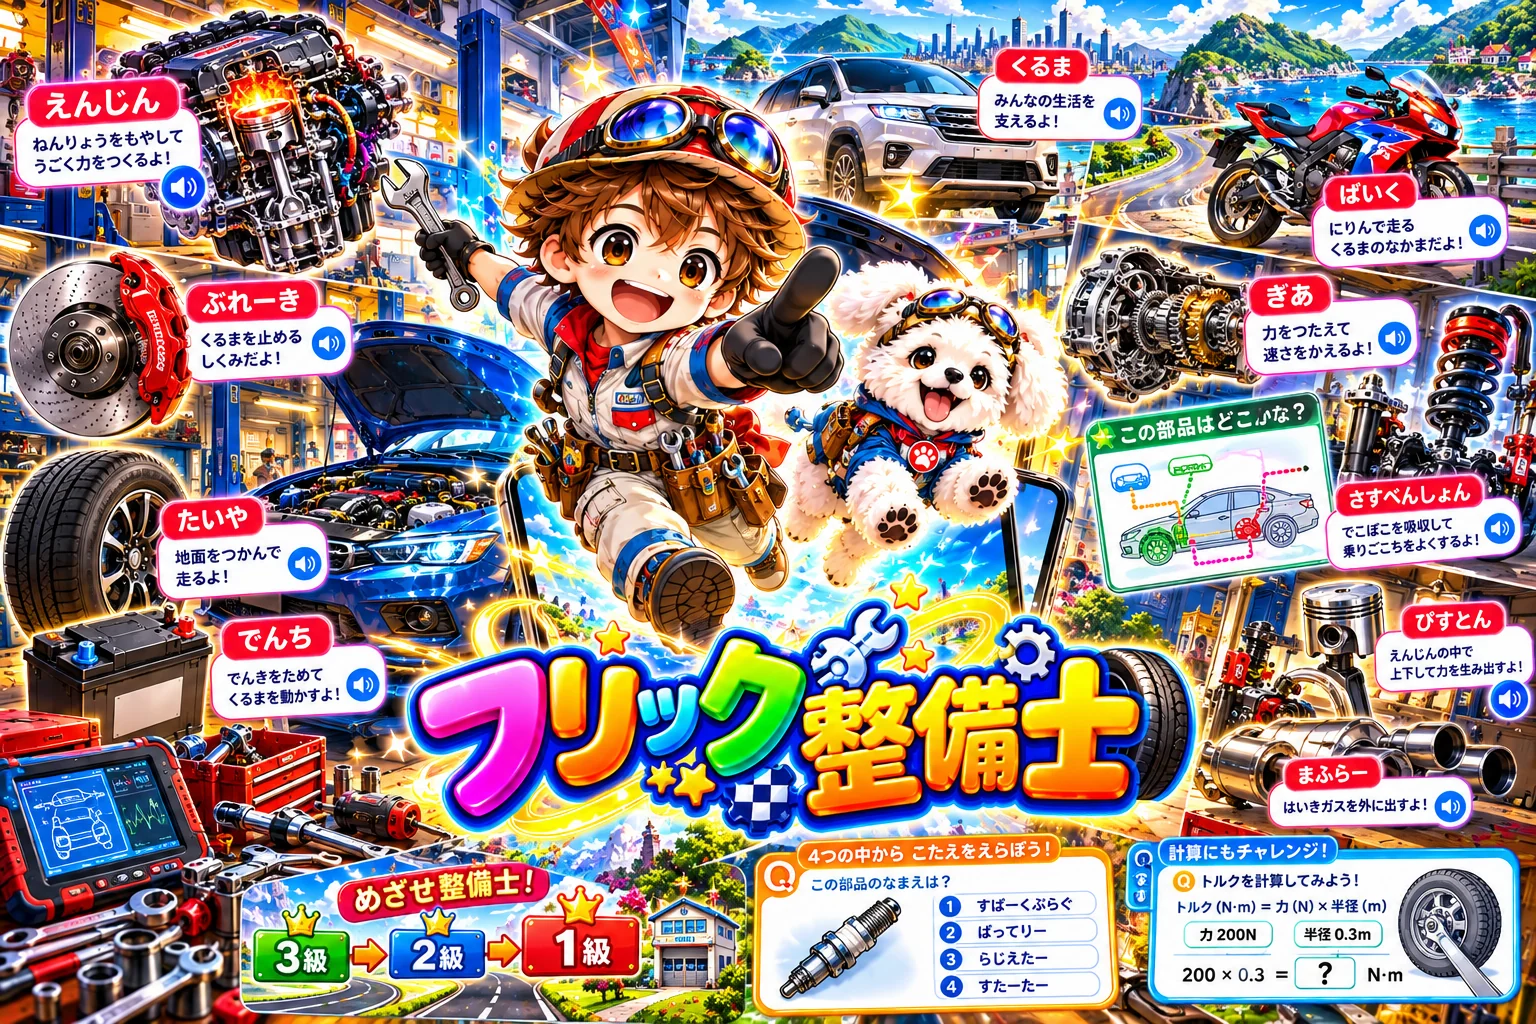
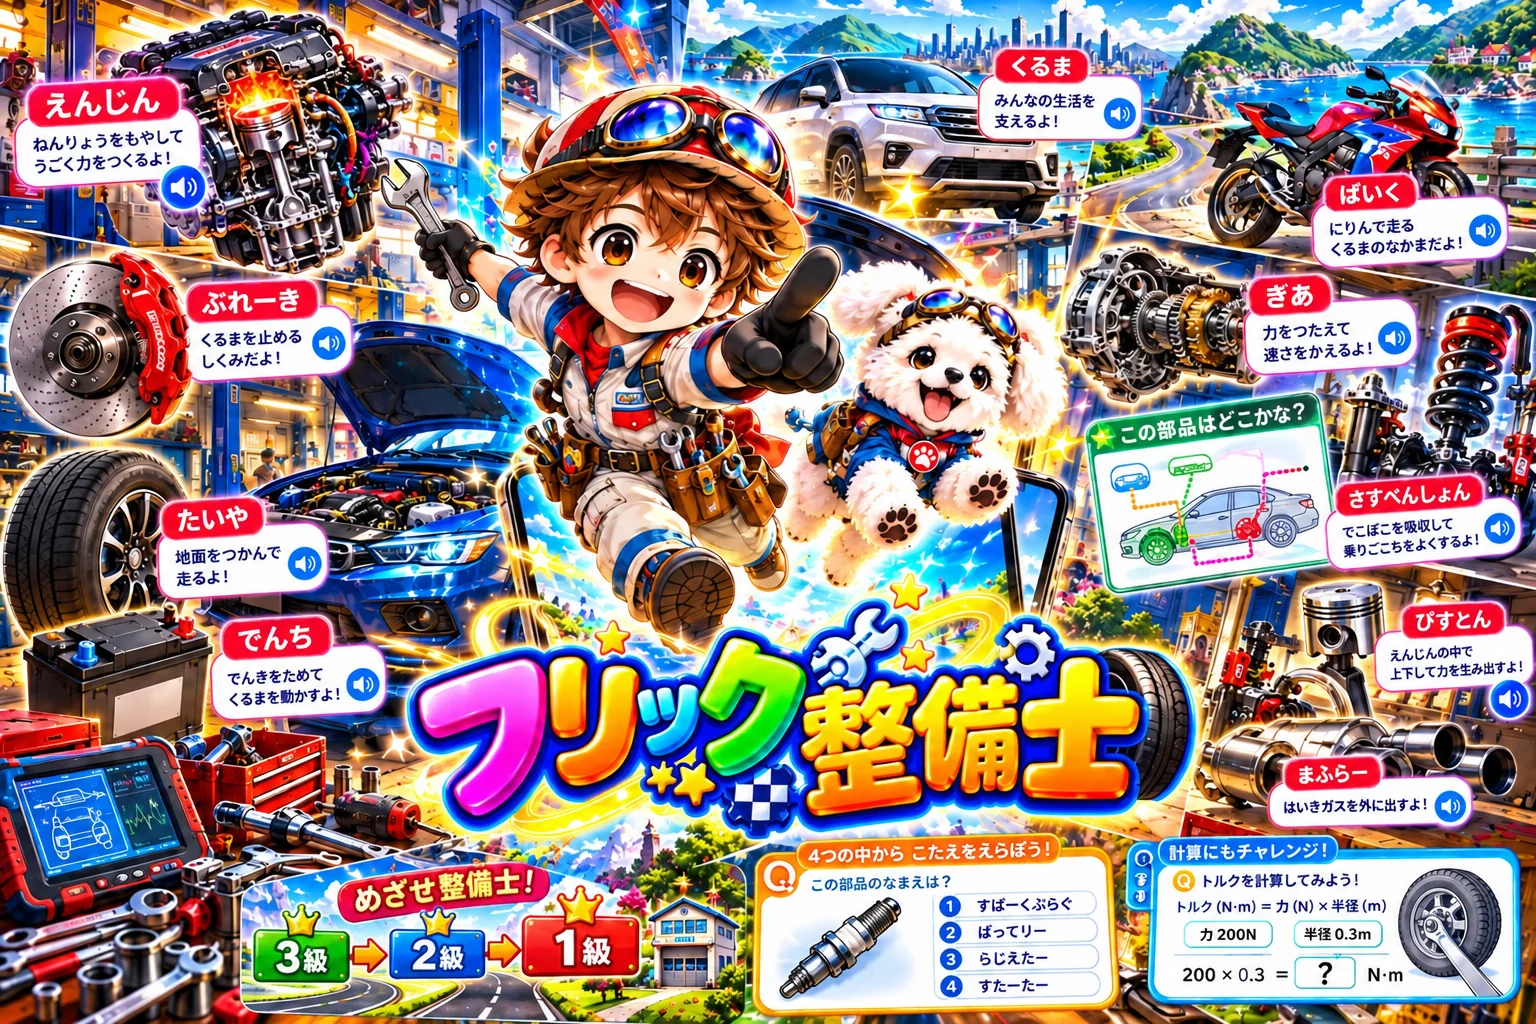
フリック整備士の トップの 絵を 直した 絵に(この部品はどこかな?)
Claude-Session: https://claude.ai/code/session_011SmHRfS48asPXBze6LzYiU

Changed region(s): [[0.0, 0.0, 1.0, 1.0], [0.5938, 0.875, 0.6875, 1.0], [0.0, 0.9062, 0.0312, 0.9375]]

diff --git a/seibi/index.html b/seibi/index.html
@@ -404,11 +404,11 @@ ruby.nm rt{font-size:10px;font-weight:500;color:var(--muted);letter-spacing:.02e
          読みあげソフトには かくして、下の <h1> が 名前を言う -->
     <div class="logo">
       <img class="logo-mark" src="logo-mark2.webp?v=3" alt="" width="144" height="144" aria-hidden="true">
-      <img class="logo-word" src="logo-word.webp?v=3" alt="" width="731" height="218" aria-hidden="true">
+      <img class="logo-word" src="logo-word.webp?v=4" alt="" width="731" height="218" aria-hidden="true">
       <button class="prof-btn" id="prof-btn" aria-label="あそぶ人を かえる"><span class="nm"></span><span class="tile sm sk-card" id="prof-tile">?</span></button>
     </div>
     <h1 class="sr-only">フリック整備士</h1>
-    <img class="hero" src="hero.webp?v=3" alt="フリック整備士。エンジン・ブレーキ・タイヤなどの 部品の 中を 男の子と 犬が 飛んで 旅する 絵" width="1536" height="1024">
+    <img class="hero" src="hero.webp?v=4" alt="フリック整備士。エンジン・ブレーキ・タイヤなどの 部品の 中を 男の子と 犬が 飛んで 旅する 絵" width="1536" height="1024">
     <p class="lead" id="lead">世界と日本の名所・地名・首都を、ひらがなでどれだけ速く打てるか。10問のトータルタイムで勝負しながら、旅に出よう。</p>
     <div class="modes" id="modes"></div>
     <div id="kabu-panel"></div><!-- 株式フリック旅行だけ: 集めた会社・称号(kabu/kabu.js) -->

diff --git a/tools/build_games.py b/tools/build_games.py
@@ -52,7 +52,7 @@ GAMES = {
     # 整備フリック旅行(けいくん 2026-09-26)。ことばは tools/seibi/terms-<旅>.json → seibi/terms.js(tools/seibi/terms_js.py)。しくみは seibi/seibi.js(SEIBI。ai.js を 写した もの)。
     #   旅は エンジン・シャシ・ブレーキ・電装EV・バイク・工具点検法令。級は 入門 → 3級めやす → 2級めやす。絵は まだ無い(文字の 題名。届いたら art を 足す)
     "seibi": dict(name="フリック整備士", modes="SEIBI", kinds=set(), color="#d9480f", hero=True, logo=True,
-                  art=dict(word=(731, 218), hero=(1536, 1024), alt="フリック整備士。エンジン・ブレーキ・タイヤなどの 部品の 中を 男の子と 犬が 飛んで 旅する 絵", iconv=3, wordv=3),
+                  art=dict(word=(731, 218), hero=(1536, 1024), alt="フリック整備士。エンジン・ブレーキ・タイヤなどの 部品の 中を 男の子と 犬が 飛んで 旅する 絵", iconv=3, wordv=4),
                   lead="クルマ・バイクの 部品と しくみの ことばを、ひらがなで フリック入力。打つと その部品が 何を するのか・しくみ図の どこに あるのかが 出るよ。身近な 部品から はじめて、3級・2級・1級 自動車整備士の 試験範囲の めやすまで。4択クイズと 計算問題で 試験の 練習も できるよ。",
                   how="表示された ひらがなを、そのまま打ち写してね。1回は かならず 10問。入門は 新しい 部品 10問、3級めやすからは 新しい 部品 7問に ふくしゅう 3問が まざるよ。部品の 説明は 本物の 試験問題では ないので、試験の 勉強には 問題集や 学校の 教科書も 使ってね。部品の 名前と しくみを おぼえる ゲームだよ。実際の 整備は 資格を もつ 人・お店に まかせよう。",
                   rule="ルール：予測変換は使わずに、自分の指で打ち切ろう。あそぶほど、クルマや バイクの 中身が 見えてくるよ。国土交通省・日本自動車整備振興会連合会とは 関係ありません。"),
